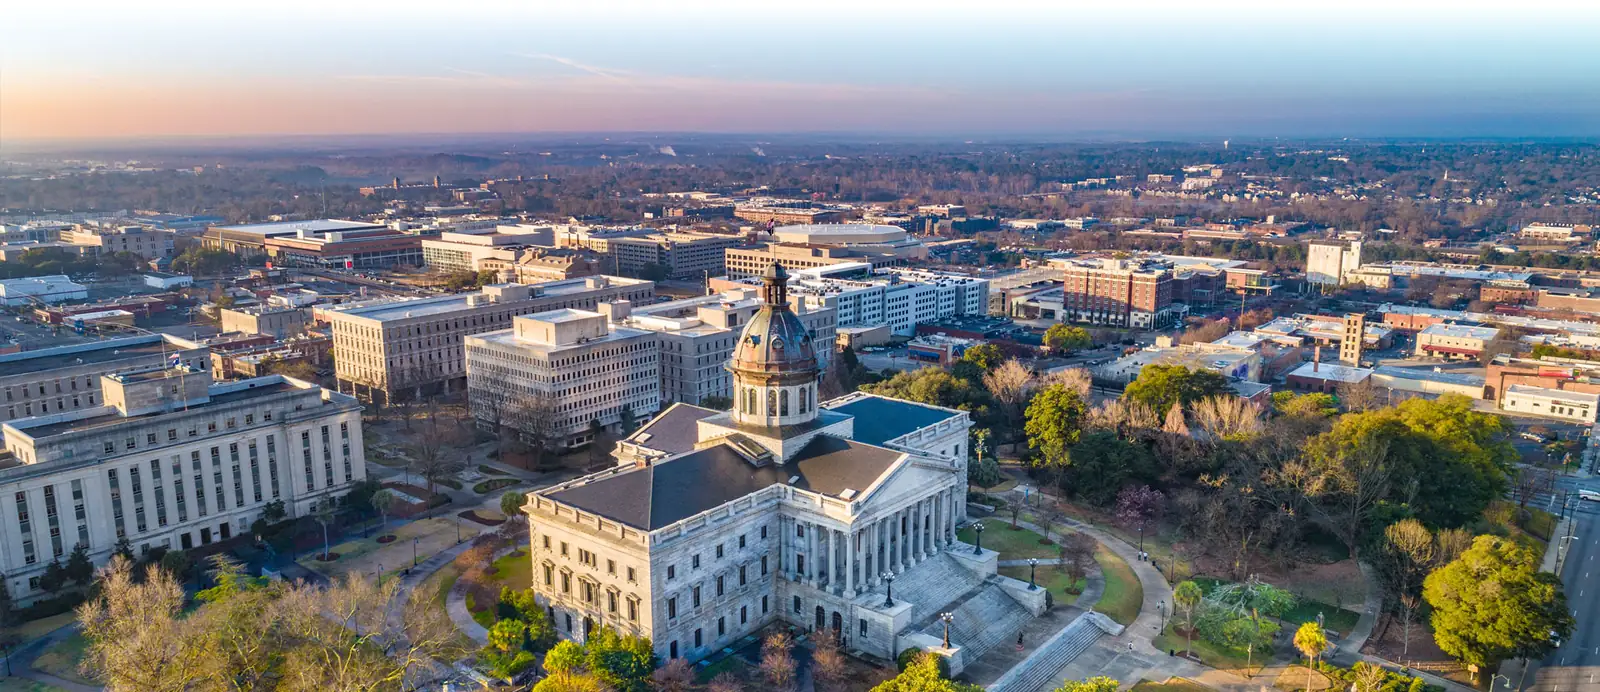
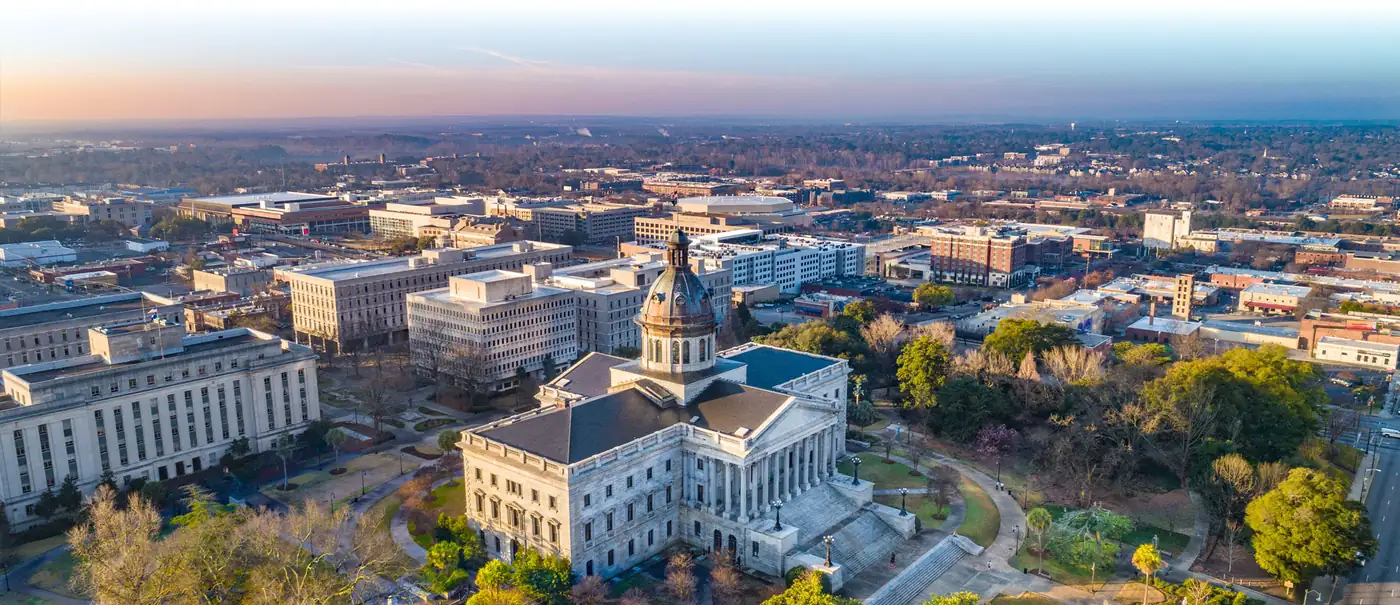
perf: serve hero as img with fetchpriority, lighter blur, smaller skyline

diff --git a/index.html b/index.html
@@ -23,7 +23,7 @@
 <link rel="apple-touch-icon" href="assets/img/favicon.png">
 <link rel="preload" href="assets/fonts/Fraunces-300-700-normal.woff2" as="font" type="font/woff2" crossorigin>
 <link rel="preload" href="assets/fonts/Figtree-300-800-normal.woff2" as="font" type="font/woff2" crossorigin>
-<link rel="preload" href="assets/img/hero-skyline.webp" as="image" fetchpriority="high">
+
 <style>
 @font-face{font-family:'Fraunces';font-style:normal;font-weight:300 700;font-display:swap;src:url('assets/fonts/Fraunces-300-700-normal.woff2') format('woff2')}
 @font-face{font-family:'Fraunces';font-style:italic;font-weight:300 700;font-display:swap;src:url('assets/fonts/Fraunces-300-700-italic.woff2') format('woff2')}
@@ -93,17 +93,18 @@ p{margin:0}
 .mobile-menu .btn{align-self:flex-start;margin-top:1rem}
 /* hero */
 .hero{position:relative;min-height:100svh;display:grid;align-items:end;padding:9rem 0 4rem;isolation:isolate;color:#fff;overflow:hidden}
-.hero-bg{position:absolute;inset:-8% 0 0;z-index:-2;background:url('assets/img/hero-skyline.webp') center 30%/cover no-repeat;transform:translateY(var(--py,0));will-change:transform}
+.hero-bg{position:absolute;inset:-8% 0 0;z-index:-2;overflow:hidden;transform:translateY(var(--py,0));will-change:transform}
+.hero-bg img{position:absolute;inset:0;width:100%;height:100%;object-fit:cover;object-position:center 30%}
 .hero-bg::after{content:"";position:absolute;inset:0;background:linear-gradient(180deg,rgba(16,20,23,.35) 0%,rgba(16,20,23,.15) 35%,rgba(16,20,23,.55) 70%,var(--paper) 100%)}
 .hero-grid{display:grid;grid-template-columns:1.25fr .75fr;gap:2rem;align-items:end}
-.panel{background:rgba(251,250,247,.86);backdrop-filter:blur(22px) saturate(130%);-webkit-backdrop-filter:blur(22px) saturate(130%);color:var(--ink);padding:clamp(1.6rem,3.5vw,3rem);border:1px solid rgba(255,255,255,.7);box-shadow:var(--shadow);position:relative}
+.panel{background:rgba(251,250,247,.9);backdrop-filter:blur(12px);-webkit-backdrop-filter:blur(12px);color:var(--ink);padding:clamp(1.6rem,3.5vw,3rem);border:1px solid rgba(255,255,255,.7);box-shadow:var(--shadow);position:relative}
 .panel::before{content:"";position:absolute;left:0;top:0;bottom:0;width:4px;background:var(--accent)}
 .hero h1{font-size:clamp(2.6rem,5.8vw,5rem);font-weight:300;line-height:1;letter-spacing:-.025em;margin:.9rem 0 1.2rem}
 .hero h1 em{font-weight:300}
 .hero .lead{font-size:clamp(1.02rem,1.3vw,1.18rem);color:var(--ink-2);max-width:36rem;margin-bottom:1.8rem}
 .hero-ctas{display:flex;flex-wrap:wrap;gap:.7rem}
-.hero-side{display:grid;gap:1px;background:rgba(255,255,255,.25);border:1px solid rgba(255,255,255,.35);backdrop-filter:blur(12px);-webkit-backdrop-filter:blur(12px)}
-.hside{padding:1.1rem 1.3rem;background:rgba(16,20,23,.45)}
+.hero-side{display:grid;gap:1px;background:rgba(255,255,255,.25);border:1px solid rgba(255,255,255,.35)}
+.hside{padding:1.1rem 1.3rem;background:rgba(16,20,23,.6)}
 .hside b{display:block;font-family:var(--display);font-size:clamp(1.6rem,2.4vw,2.2rem);font-weight:300;line-height:1.1}
 .hside span{font-size:.74rem;letter-spacing:.14em;text-transform:uppercase;opacity:.85}
 /* clients */
@@ -299,7 +300,7 @@ footer{background:var(--ink);color:rgba(255,255,255,.8);padding:4rem 0 2rem;marg
 
 <main id="main">
 <section class="hero" id="top">
-  <div class="hero-bg" id="heroBg" role="img" aria-label="Aerial view of downtown Columbia, South Carolina"></div>
+  <div class="hero-bg" id="heroBg"><img src="assets/img/hero-skyline.webp" alt="Aerial view of downtown Columbia, South Carolina" width="1400" height="606" fetchpriority="high" decoding="async"></div>
   <div class="wrap hero-grid">
     <div class="panel up">
       <p class="label">Commercial · Institutional · Residential · Midlands, SC</p>
